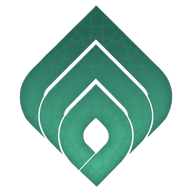
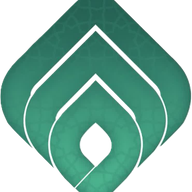
جایگزینی آیکونها و آرم برنامه با آرم جدید مجتمع (آیکون PWA، فاوآیکون، ماسکابل، اپل، لوگوی کامل) و بروزرسانی کش
Claude-Session: https://claude.ai/code/session_0173pxCsi6S7hoYFcvxoyXEQ

diff --git a/resources/js/components/BrandSplash.tsx b/resources/js/components/BrandSplash.tsx
@@ -13,7 +13,7 @@ interface BrandSplashProps {
 export const BrandSplash: React.FC<BrandSplashProps> = ({ offline = false, onRetry }) => (
   <div className="yv-boot" role="status" aria-live="polite" aria-label={offline ? 'ارتباط با سرور برقرار نشد' : 'در حال آمادهسازی'}>
     <div className="yv-boot__halo" aria-hidden="true" />
-    <img className="yv-boot__logo" src="/brand/logo-full.png" width={789} height={1266} alt="آرم مجتمع تربیتی آموزشی یاوران ولایت" decoding="async" />
+    <img className="yv-boot__logo" src="/brand/logo-full.png" width={741} height={1219} alt="آرم مجتمع تربیتی آموزشی یاوران ولایت" decoding="async" />
     {offline ? (
       <>
         <div className="yv-boot__hint">ارتباط با سرور برقرار نشد. اتصال اینترنت را بررسی کنید.</div>

diff --git a/resources/js/components/LoginModal.tsx b/resources/js/components/LoginModal.tsx
@@ -98,7 +98,7 @@ export const LoginModal: React.FC<LoginModalProps> = ({ isOpen, onClose }) => {
 
       {/* موبایل: آرم رسمی بزرگ بالای برگهٔ ورود (در دسکتاپ پنهان است) */}
       <section className="yv-login-hero" aria-hidden="true">
-        <img src="/brand/logo-full.png" alt="" width={789} height={1266} decoding="async" />
+        <img src="/brand/logo-full.png" alt="" width={741} height={1219} decoding="async" />
         <p className="yv-login-hero__title">مجتمع تربیتی آموزشی یاوران ولایت</p>
         <p className="yv-login-hero__sub">سامانه مدیریت آموزشی، انضباطی و تربیتی</p>
       </section>

diff --git a/resources/js/components/YavaranLogo.tsx b/resources/js/components/YavaranLogo.tsx
@@ -33,8 +33,8 @@ export const YavaranLogo: React.FC<YavaranLogoProps> = ({
       <img
         src="/brand/logo-full.png"
         alt={alt}
-        width={789}
-        height={1266}
+        width={741}
+        height={1219}
         decoding="async"
         draggable={false}
         className={`${width} h-auto select-none object-contain ${className}`}

diff --git a/public/sw.js b/public/sw.js
@@ -1,5 +1,5 @@
 /* Service Worker — مدرسه یاوران ولایت (PWA) */
-const VERSION = 'yavaran-v1.3.0';
+const VERSION = 'yavaran-v1.4.0';
 const SHELL_CACHE = `${VERSION}-shell`;
 const ASSET_CACHE = `${VERSION}-assets`;
 const FONT_CACHE = `${VERSION}-fonts`;

diff --git a/resources/views/app.blade.php b/resources/views/app.blade.php
@@ -4,10 +4,10 @@
     <meta charset="UTF-8" />
     <meta name="viewport" content="width=device-width, initial-scale=1.0, maximum-scale=1.0, user-scalable=no, viewport-fit=cover, interactive-widget=resizes-content" />
     <title>مدرسه یاوران ولایت</title>
-    <link rel="icon" type="image/png" sizes="48x48" href="/icons/favicon-48.png" />
-    <link rel="icon" type="image/png" sizes="32x32" href="/icons/favicon-32.png" />
-    <link rel="apple-touch-icon" sizes="180x180" href="/icons/apple-touch-icon.png" />
-    <link rel="icon" href="/favicon.ico" sizes="any" />
+    <link rel="icon" type="image/png" sizes="48x48" href="/icons/favicon-48.png?v=2" />
+    <link rel="icon" type="image/png" sizes="32x32" href="/icons/favicon-32.png?v=2" />
+    <link rel="apple-touch-icon" sizes="180x180" href="/icons/apple-touch-icon.png?v=2" />
+    <link rel="icon" href="/favicon.ico?v=2" sizes="any" />
     <link rel="manifest" href="/manifest.json" />
     <link rel="apple-touch-startup-image" href="/splash/1290x2796.png" media="(device-width: 430px) and (device-height: 932px) and (-webkit-device-pixel-ratio: 3) and (orientation: portrait)" />
     <link rel="apple-touch-startup-image" href="/splash/1179x2556.png" media="(device-width: 393px) and (device-height: 852px) and (-webkit-device-pixel-ratio: 3) and (orientation: portrait)" />
@@ -28,7 +28,7 @@
     <meta name="apple-mobile-web-app-title" content="یاوران ولایت" />
     <meta name="application-name" content="یاوران ولایت" />
     <meta name="msapplication-TileColor" content="#0b4838" />
-    <meta name="msapplication-TileImage" content="/icons/icon-192.png" />
+    <meta name="msapplication-TileImage" content="/icons/icon-192.png?v=2" />
     <meta name="robots" content="noindex, nofollow" />
     <meta name="description" content="سامانه جامع مدیریت آموزشی، انضباطی و تربیتی مدرسه یاوران ولایت شامل مدیریت دروس و تخصیص اساتید دوره اول متوسطه، دفتر نمرات و مانیتورینگ کارنامه، و پنلهای معاونت تربیتی و انضباطی" />
     <meta property="og:title" content="مدرسه یاوران ولایت" />
@@ -67,7 +67,7 @@
     <div id="root">
       <div class="yv-boot" role="status" aria-live="polite" aria-label="در حال آمادهسازی">
         <div class="yv-boot__halo" aria-hidden="true"></div>
-        <img class="yv-boot__logo" src="/brand/logo-full.png" width="789" height="1266" alt="آرم مجتمع تربیتی آموزشی یاوران ولایت" decoding="async" fetchpriority="high" />
+        <img class="yv-boot__logo" src="/brand/logo-full.png" width="741" height="1219" alt="آرم مجتمع تربیتی آموزشی یاوران ولایت" decoding="async" fetchpriority="high" />
         <div class="yv-boot__bar" aria-hidden="true"><i></i></div>
         <div class="yv-boot__hint">در حال آمادهسازی سامانه…</div>
         <div class="yv-boot__foot">سامانه مدیریت آموزشی، انضباطی و تربیتی</div>
